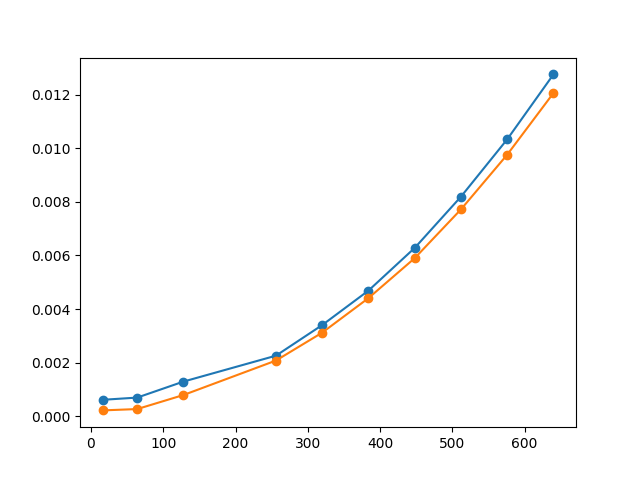
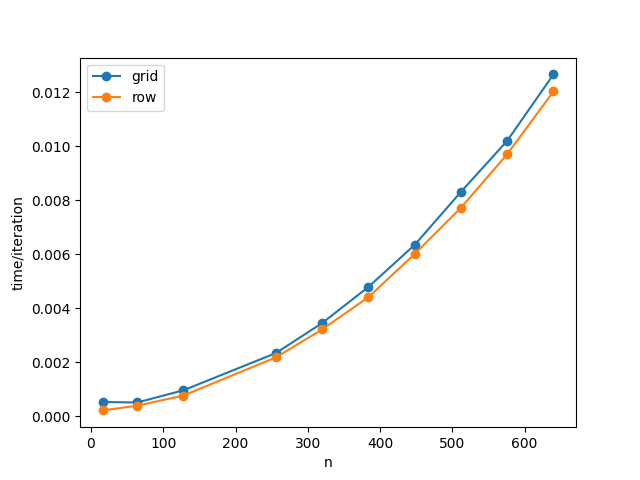
fix I/O timings, make plots prettier

diff --git a/scripts/plot.py b/scripts/plot.py
@@ -19,6 +19,8 @@ def plot_timings(f, name):
         nums = re.findall("(\d+\.\d+)|(\d+)", line)
         time = nums[1][0]
         times.append(time)
+    plot.xlabel("n")
+    plot.ylabel("time/iteration")
     plot.plot(ns, list(map(float, times)), 
               '-o', label=name)
 
@@ -29,24 +31,29 @@ def plot_io(f, name):
     for line in ls[1::2]:
         nums = re.findall("\d+\.\d+", line)
         times.append(nums[0])
-    print(times)
+    plot.xlabel("n")
+    plot.ylabel("i/o time")
     plot.plot(ns, list(map(float, times)),
               '-o', label=name);
     
 if __name__ == "__main__":
     plot_timings(open("timings/64_grid.txt"), "grid")    
     plot_timings(open("timings/64_row.txt"), "row")
+    plot.legend()
     plot.savefig("coms64.png")
     plot.close()
     plot_io(open("timings/64_grid.txt"), "grid")
     plot_io(open("timings/64_row.txt"), "row")
+    plot.legend()
     plot.savefig("io64.png")
     plot.close()
     plot_timings(open("timings/16_grid.txt"), "grid")    
     plot_timings(open("timings/16_row.txt"), "row")
+    plot.legend()
     plot.savefig("coms16.png")
     plot.close()
     plot_io(open("timings/16_grid.txt"), "grid")
     plot_io(open("timings/16_row.txt"), "row")
+    plot.legend()
     plot.savefig("io16.png")
     plot.close()
